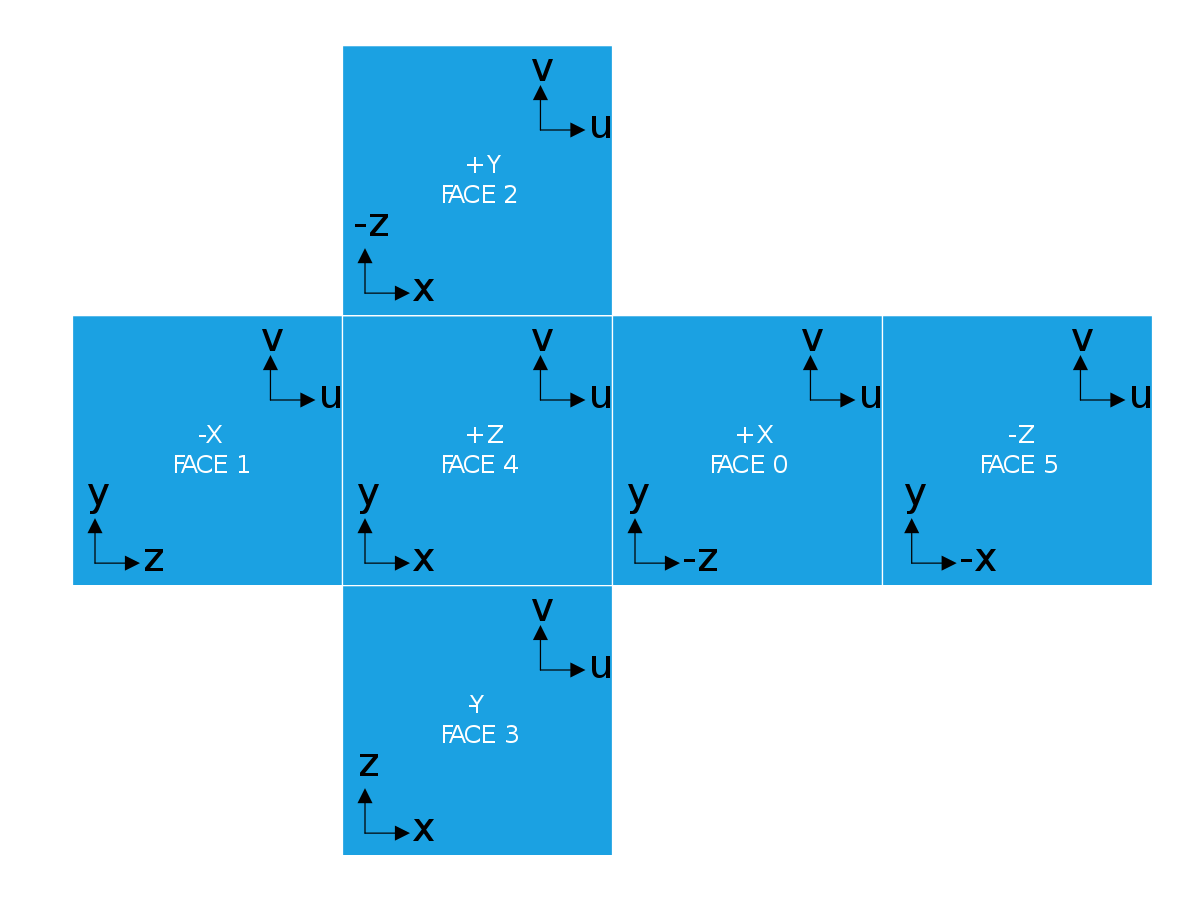
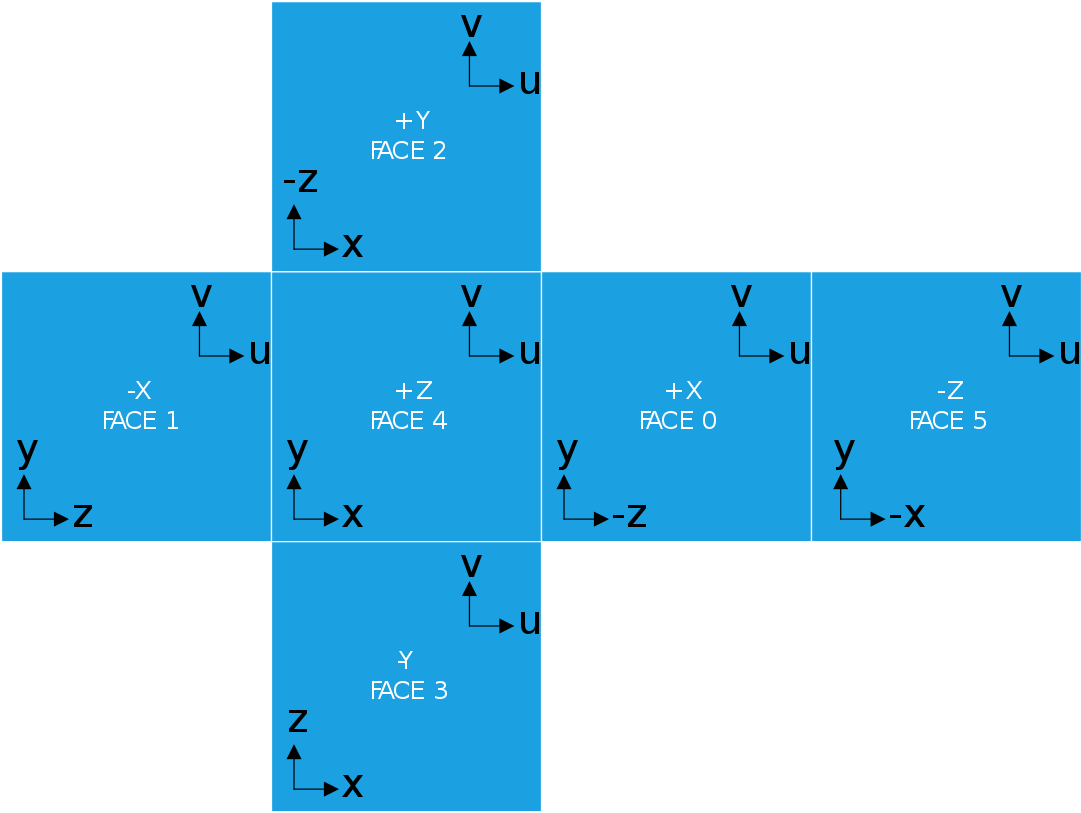
Applied Texture

diff --git a/PGE20Test3DMounatins/olcUTIL_Hardware3D.h b/PGE20Test3DMounatins/olcUTIL_Hardware3D.h
@@ -687,36 +687,36 @@ namespace olc::utils::hw3d
 		olc::utils::hw3d::mesh m;
 
 		// South
-		m.pos.push_back({ 0,0,0 }); m.norm.push_back({ 0, 0, -1, 0 }); m.uv.push_back({ 0.25, 0.5 }); m.col.push_back(olc::BLUE);
-		m.pos.push_back({ 1,0,0 }); m.norm.push_back({ 0, 0, -1, 0 }); m.uv.push_back({ 0.5, 0.5 }); m.col.push_back(olc::BLUE);
-		m.pos.push_back({ 1,1,0 }); m.norm.push_back({ 0, 0, -1, 0 }); m.uv.push_back({ 0.5, 0.25 }); m.col.push_back(olc::BLUE);
-		m.pos.push_back({ 0,0,0 }); m.norm.push_back({ 0, 0, -1, 0 }); m.uv.push_back({ 0.25, 0.5 }); m.col.push_back(olc::BLUE);
-		m.pos.push_back({ 1,1,0 }); m.norm.push_back({ 0, 0, -1, 0 }); m.uv.push_back({ 0.5, 0.25 }); m.col.push_back(olc::BLUE);
-		m.pos.push_back({ 0,1,0 }); m.norm.push_back({ 0, 0, -1, 0 }); m.uv.push_back({ 0.25, 0.25 }); m.col.push_back(olc::BLUE);
+		m.pos.push_back({ 0,0,0 }); m.norm.push_back({ 0, 0, -1, 0 }); m.uv.push_back({ 0.25, 0.5 }); m.col.push_back(olc::WHITE);
+		m.pos.push_back({ 1,0,0 }); m.norm.push_back({ 0, 0, -1, 0 }); m.uv.push_back({ 0.5, 0.5 }); m.col.push_back(olc::WHITE);
+		m.pos.push_back({ 1,1,0 }); m.norm.push_back({ 0, 0, -1, 0 }); m.uv.push_back({ 0.5, 0.25 }); m.col.push_back(olc::WHITE);
+		m.pos.push_back({ 0,0,0 }); m.norm.push_back({ 0, 0, -1, 0 }); m.uv.push_back({ 0.25, 0.5 }); m.col.push_back(olc::WHITE);
+		m.pos.push_back({ 1,1,0 }); m.norm.push_back({ 0, 0, -1, 0 }); m.uv.push_back({ 0.5, 0.25 }); m.col.push_back(olc::WHITE);
+		m.pos.push_back({ 0,1,0 }); m.norm.push_back({ 0, 0, -1, 0 }); m.uv.push_back({ 0.25, 0.25 }); m.col.push_back(olc::WHITE);
 
 		// East
-		m.pos.push_back({ 1,0,0 }); m.norm.push_back({ 1, 0, 0, 0 }); m.uv.push_back({ 0.5, 0.5 }); m.col.push_back(olc::YELLOW);
-		m.pos.push_back({ 1,0,1 }); m.norm.push_back({ 1, 0, 0, 0 }); m.uv.push_back({ 0.75, 0.5 }); m.col.push_back(olc::YELLOW);
-		m.pos.push_back({ 1,1,1 }); m.norm.push_back({ 1, 0, 0, 0 }); m.uv.push_back({ 0.75, 0.25 }); m.col.push_back(olc::YELLOW);
-		m.pos.push_back({ 1,0,0 }); m.norm.push_back({ 1, 0, 0, 0 }); m.uv.push_back({ 0.5, 0.5 }); m.col.push_back(olc::YELLOW);
-		m.pos.push_back({ 1,1,1 }); m.norm.push_back({ 1, 0, 0, 0 }); m.uv.push_back({ 0.75, 0.25 }); m.col.push_back(olc::YELLOW);
-		m.pos.push_back({ 1,1,0 }); m.norm.push_back({ 1, 0, 0, 0 }); m.uv.push_back({ 0.5, 0.25 }); m.col.push_back(olc::YELLOW);
+		m.pos.push_back({ 1,0,0 }); m.norm.push_back({ 1, 0, 0, 0 }); m.uv.push_back({ 0.5, 0.5 }); m.col.push_back(olc::WHITE);
+		m.pos.push_back({ 1,0,1 }); m.norm.push_back({ 1, 0, 0, 0 }); m.uv.push_back({ 0.75, 0.5 }); m.col.push_back(olc::WHITE);
+		m.pos.push_back({ 1,1,1 }); m.norm.push_back({ 1, 0, 0, 0 }); m.uv.push_back({ 0.75, 0.25 }); m.col.push_back(olc::WHITE);
+		m.pos.push_back({ 1,0,0 }); m.norm.push_back({ 1, 0, 0, 0 }); m.uv.push_back({ 0.5, 0.5 }); m.col.push_back(olc::WHITE);
+		m.pos.push_back({ 1,1,1 }); m.norm.push_back({ 1, 0, 0, 0 }); m.uv.push_back({ 0.75, 0.25 }); m.col.push_back(olc::WHITE);
+		m.pos.push_back({ 1,1,0 }); m.norm.push_back({ 1, 0, 0, 0 }); m.uv.push_back({ 0.5, 0.25 }); m.col.push_back(olc::WHITE);
 
 		// North
-		m.pos.push_back({ 1,0,1 }); m.norm.push_back({ 0, 0, 1, 0 }); m.uv.push_back({ 0.75, 0.5 }); m.col.push_back(olc::RED);
-		m.pos.push_back({ 0,0,1 }); m.norm.push_back({ 0, 0, 1, 0 }); m.uv.push_back({ 1.0, 0.5 }); m.col.push_back(olc::RED);
-		m.pos.push_back({ 0,1,1 }); m.norm.push_back({ 0, 0, 1, 0 }); m.uv.push_back({ 1.0, 0.25 }); m.col.push_back(olc::RED);
-		m.pos.push_back({ 1,0,1 }); m.norm.push_back({ 0, 0, 1, 0 }); m.uv.push_back({ 0.75, 0.5 }); m.col.push_back(olc::RED);
-		m.pos.push_back({ 0,1,1 }); m.norm.push_back({ 0, 0, 1, 0 }); m.uv.push_back({ 1.0, 0.25 }); m.col.push_back(olc::RED);
-		m.pos.push_back({ 1,1,1 }); m.norm.push_back({ 0, 0, 1, 0 }); m.uv.push_back({ 0.75, 0.25 }); m.col.push_back(olc::RED);
+		m.pos.push_back({ 1,0,1 }); m.norm.push_back({ 0, 0, 1, 0 }); m.uv.push_back({ 0.75, 0.5 }); m.col.push_back(olc::WHITE);
+		m.pos.push_back({ 0,0,1 }); m.norm.push_back({ 0, 0, 1, 0 }); m.uv.push_back({ 1.0, 0.5 }); m.col.push_back(olc::WHITE);
+		m.pos.push_back({ 0,1,1 }); m.norm.push_back({ 0, 0, 1, 0 }); m.uv.push_back({ 1.0, 0.25 }); m.col.push_back(olc::WHITE);
+		m.pos.push_back({ 1,0,1 }); m.norm.push_back({ 0, 0, 1, 0 }); m.uv.push_back({ 0.75, 0.5 }); m.col.push_back(olc::WHITE);
+		m.pos.push_back({ 0,1,1 }); m.norm.push_back({ 0, 0, 1, 0 }); m.uv.push_back({ 1.0, 0.25 }); m.col.push_back(olc::WHITE);
+		m.pos.push_back({ 1,1,1 }); m.norm.push_back({ 0, 0, 1, 0 }); m.uv.push_back({ 0.75, 0.25 }); m.col.push_back(olc::WHITE);
 
 		// West
-		m.pos.push_back({ 0,0,1 }); m.norm.push_back({ -1, 0, 0, 0 }); m.uv.push_back({ 0.0, 0.5 }); m.col.push_back(olc::MAGENTA);
-		m.pos.push_back({ 0,0,0 }); m.norm.push_back({ -1, 0, 0, 0 }); m.uv.push_back({ 0.25, 0.5 }); m.col.push_back(olc::MAGENTA);
-		m.pos.push_back({ 0,1,0 }); m.norm.push_back({ -1, 0, 0, 0 }); m.uv.push_back({ 0.25, 0.25 }); m.col.push_back(olc::MAGENTA);
-		m.pos.push_back({ 0,0,1 }); m.norm.push_back({ -1, 0, 0, 0 }); m.uv.push_back({ 0.0, 0.5 }); m.col.push_back(olc::MAGENTA);
-		m.pos.push_back({ 0,1,0 }); m.norm.push_back({ -1, 0, 0, 0 }); m.uv.push_back({ 0.25, 0.25 }); m.col.push_back(olc::MAGENTA);
-		m.pos.push_back({ 0,1,1 }); m.norm.push_back({ -1, 0, 0, 0 }); m.uv.push_back({ 0.0, 0.25 }); m.col.push_back(olc::MAGENTA);
+		m.pos.push_back({ 0,0,1 }); m.norm.push_back({ -1, 0, 0, 0 }); m.uv.push_back({ 0.0, 0.5 }); m.col.push_back(olc::WHITE);
+		m.pos.push_back({ 0,0,0 }); m.norm.push_back({ -1, 0, 0, 0 }); m.uv.push_back({ 0.25, 0.5 }); m.col.push_back(olc::WHITE);
+		m.pos.push_back({ 0,1,0 }); m.norm.push_back({ -1, 0, 0, 0 }); m.uv.push_back({ 0.25, 0.25 }); m.col.push_back(olc::WHITE);
+		m.pos.push_back({ 0,0,1 }); m.norm.push_back({ -1, 0, 0, 0 }); m.uv.push_back({ 0.0, 0.5 }); m.col.push_back(olc::WHITE);
+		m.pos.push_back({ 0,1,0 }); m.norm.push_back({ -1, 0, 0, 0 }); m.uv.push_back({ 0.25, 0.25 }); m.col.push_back(olc::WHITE);
+		m.pos.push_back({ 0,1,1 }); m.norm.push_back({ -1, 0, 0, 0 }); m.uv.push_back({ 0.0, 0.25 }); m.col.push_back(olc::WHITE);
 
 		// Top
 		m.pos.push_back({ 0,1,0 }); m.norm.push_back({ 0, 1, 0, 0 }); m.uv.push_back({ 0.25, 0.25 }); m.col.push_back(olc::WHITE);
@@ -727,12 +727,12 @@ namespace olc::utils::hw3d
 		m.pos.push_back({ 0,1,1 }); m.norm.push_back({ 0, 1, 0, 0 }); m.uv.push_back({ 0.25, 0.0 }); m.col.push_back(olc::WHITE);
 
 		// Bottom
-		m.pos.push_back({ 0,0,1 }); m.norm.push_back({ 0, -1, 0, 0 }); m.uv.push_back({ 0.25, 0.75 }); m.col.push_back(olc::GREEN);
-		m.pos.push_back({ 1,0,1 }); m.norm.push_back({ 0, -1, 0, 0 }); m.uv.push_back({ 0.5, 0.75 }); m.col.push_back(olc::GREEN);
-		m.pos.push_back({ 1,0,0 }); m.norm.push_back({ 0, -1, 0, 0 }); m.uv.push_back({ 0.5, 0.5 }); m.col.push_back(olc::GREEN);
-		m.pos.push_back({ 0,0,1 }); m.norm.push_back({ 0, -1, 0, 0 }); m.uv.push_back({ 0.25, 0.75 }); m.col.push_back(olc::GREEN);
-		m.pos.push_back({ 1,0,0 }); m.norm.push_back({ 0, -1, 0, 0 }); m.uv.push_back({ 0.5, 0.5 }); m.col.push_back(olc::GREEN);
-		m.pos.push_back({ 0,0,0 }); m.norm.push_back({ 0, -1, 0, 0 }); m.uv.push_back({ 0.25, 0.5 }); m.col.push_back(olc::GREEN);
+		m.pos.push_back({ 0,0,1 }); m.norm.push_back({ 0, -1, 0, 0 }); m.uv.push_back({ 0.25, 0.75 }); m.col.push_back(olc::WHITE);
+		m.pos.push_back({ 1,0,1 }); m.norm.push_back({ 0, -1, 0, 0 }); m.uv.push_back({ 0.5, 0.75 }); m.col.push_back(olc::WHITE);
+		m.pos.push_back({ 1,0,0 }); m.norm.push_back({ 0, -1, 0, 0 }); m.uv.push_back({ 0.5, 0.5 }); m.col.push_back(olc::WHITE);
+		m.pos.push_back({ 0,0,1 }); m.norm.push_back({ 0, -1, 0, 0 }); m.uv.push_back({ 0.25, 0.75 }); m.col.push_back(olc::WHITE);
+		m.pos.push_back({ 1,0,0 }); m.norm.push_back({ 0, -1, 0, 0 }); m.uv.push_back({ 0.5, 0.5 }); m.col.push_back(olc::WHITE);
+		m.pos.push_back({ 0,0,0 }); m.norm.push_back({ 0, -1, 0, 0 }); m.uv.push_back({ 0.25, 0.5 }); m.col.push_back(olc::WHITE);
 
 		return m;
 	}

diff --git a/PGE20Test3DMounatins/PGE20Test3DMounatins.cpp b/PGE20Test3DMounatins/PGE20Test3DMounatins.cpp
@@ -114,8 +114,7 @@ public:
             int pause = 0; // TODO: Remove. We have an issue
         }
 
-        // Create SantiyCube
-          //StantiyCube
+        // Create SanityCube
         matSanityCube = olc::utils::hw3d::CreateSanityCube();
         renTestCube.Load("assets/images/TestCube.png");
 
@@ -170,6 +169,7 @@ public:
 
         //HW3D_Projection(Cam3D.GetProjectionMatrix().m);
         HW3D_Projection(matProject.m);
+
         // Lighting
         olc::vf3d vLight = vf3dSunLocation.norm();
         olc::Pixel pixIllum;
@@ -196,7 +196,7 @@ public:
         HW3D_DrawObject((matWorld).m, decLandScape, meshMountain.layout, meshMountain.pos, meshMountain.uv, meshMountain.col);
 
         // renTestCube.Decal()
-        HW3D_DrawObject((matView * matWorld * matCube).m, nullptr, matSanityCube.layout, matSanityCube.pos, matSanityCube.uv, matSanityCube.col);
+        HW3D_DrawObject((matView * matWorld * matCube).m, renTestCube.Decal(), matSanityCube.layout, matSanityCube.pos, matSanityCube.uv, matSanityCube.col);
 
         // Draw Logo
         DrawDecal({ 5.0f, (float)ScreenHeight() - 100 }, decOLCPGEMobLogo, { 0.5f, 0.5f });
